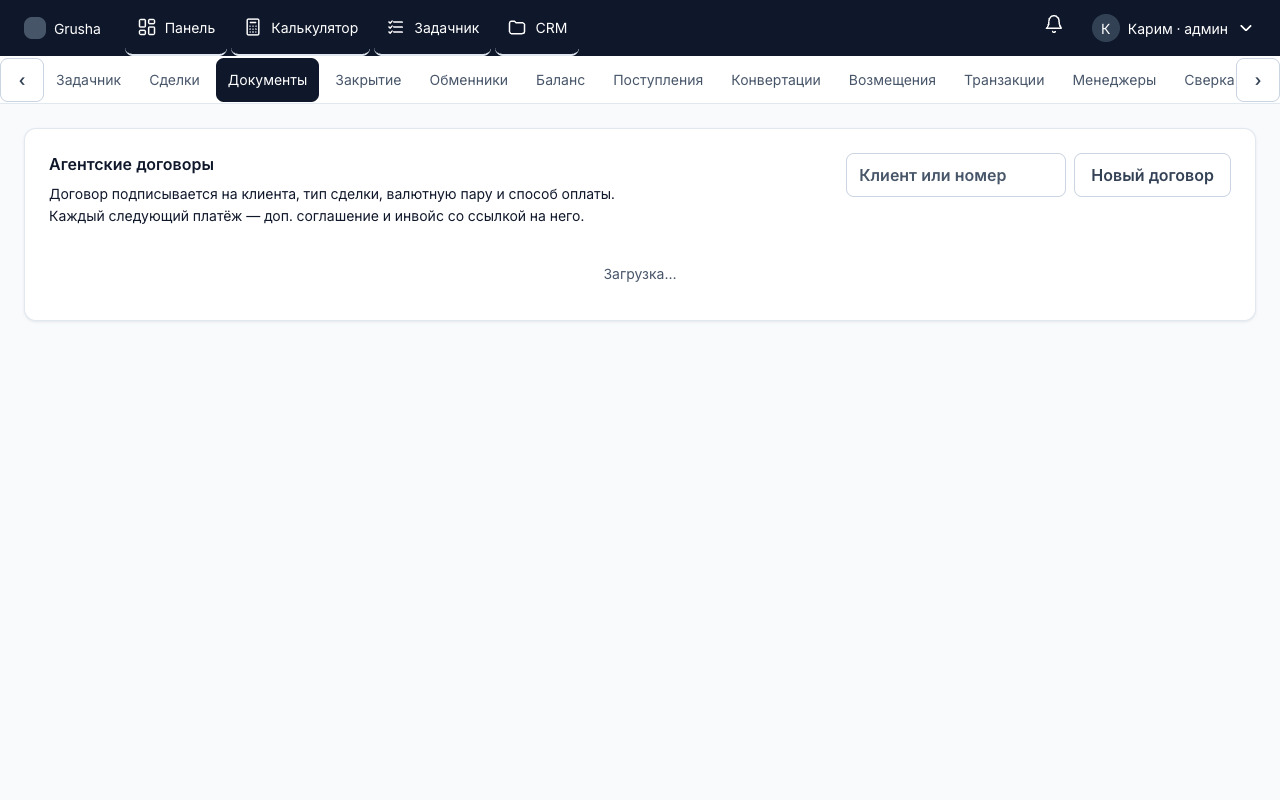
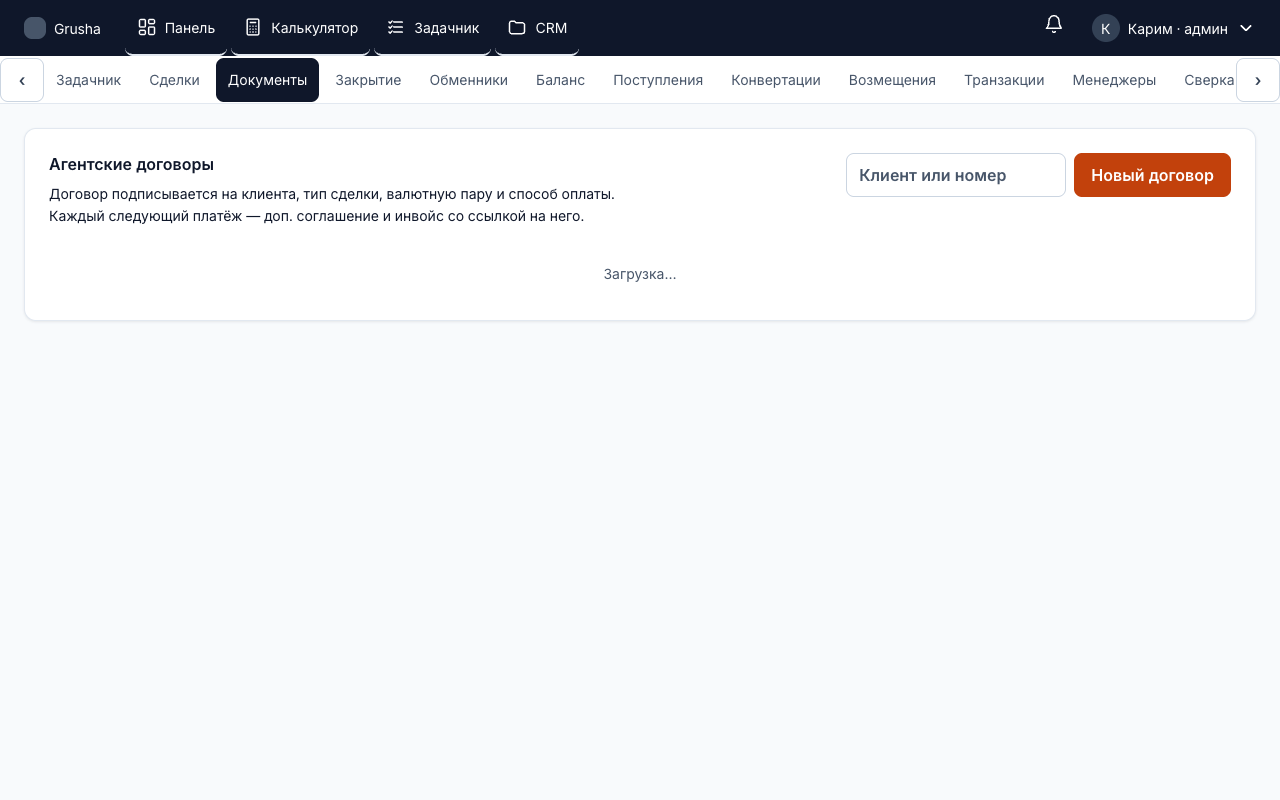
fix: restore primary action on CRM documents screen

Changed region(s): [[0.8125, 0.1875, 0.9688, 0.25]]

diff --git a/static/design-layer.css b/static/design-layer.css
@@ -232,7 +232,7 @@ body.wave4a :is(.button-primary, .calculate-btn, #deals .nav-create-btn,
                 #transactions .btn-primary, #managers .btn-primary,
                 #admins .btn-primary, #kyc .btn-primary,
                 #partners .btn-primary, #referrers .btn-primary,
-                #documents > .docs-head .btn-primary,
+                #documents .docs-head .btn-primary,
                 #exchangers .btn-primary, #balance .btn-primary:first-of-type,
                 #verification .btn-primary:first-of-type) {
   background: var(--action-coral) !important;
@@ -245,7 +245,7 @@ body.wave4a :is(.button-primary, .calculate-btn, #deals .nav-create-btn,
                 #transactions .btn-primary, #managers .btn-primary,
                 #admins .btn-primary, #kyc .btn-primary,
                 #partners .btn-primary, #referrers .btn-primary,
-                #documents > .docs-head .btn-primary,
+                #documents .docs-head .btn-primary,
                 #exchangers .btn-primary, #balance .btn-primary:first-of-type,
                 #verification .btn-primary:first-of-type) * { color: var(--surface-white) !important; }
 body.wave4a :is(.button-primary, .calculate-btn, #deals .nav-create-btn,
@@ -254,7 +254,7 @@ body.wave4a :is(.button-primary, .calculate-btn, #deals .nav-create-btn,
                 #transactions .btn-primary, #managers .btn-primary,
                 #admins .btn-primary, #kyc .btn-primary,
                 #partners .btn-primary, #referrers .btn-primary,
-                #documents > .docs-head .btn-primary,
+                #documents .docs-head .btn-primary,
                 #exchangers .btn-primary, #balance .btn-primary:first-of-type,
                 #verification .btn-primary:first-of-type):hover {
   background: var(--action-coral-hover) !important;

diff --git a/outputs/calccrm-redesign/wave4a/gate-summary.md b/outputs/calccrm-redesign/wave4a/gate-summary.md
@@ -31,9 +31,12 @@
 |---|---|---|
 | Калькулятор — результат | [до](machine-calculator-result/before-karim-375.png) / [после](machine-calculator-result/after-karim-375.png) | [до](machine-calculator-result/before-karim-1280.png) / [после](machine-calculator-result/after-karim-1280.png) |
 | Сделки | [до](machine-crm-deals/before-karim-375.png) / [после](machine-crm-deals/after-karim-375.png) | [до](machine-crm-deals/before-karim-1280.png) / [после](machine-crm-deals/after-karim-1280.png) |
+| Документы | [до](machine-crm-documents/before-karim-375.png) / [после](machine-crm-documents/after-karim-375.png) | [до](machine-crm-documents/before-karim-1280.png) / [после](machine-crm-documents/after-karim-1280.png) |
 | Аналитика CRM | [до](machine-crm-dashboard/before-karim-375.png) / [после](machine-crm-dashboard/after-karim-375.png) | [до](machine-crm-dashboard/before-karim-1280.png) / [после](machine-crm-dashboard/after-karim-1280.png) |
 | Обменники | [до](machine-crm-exchangers/before-karim-375.png) / [после](machine-crm-exchangers/after-karim-375.png) | [до](machine-crm-exchangers/before-karim-1280.png) / [после](machine-crm-exchangers/after-karim-1280.png) |
 
 На снимках «Сделок» сохранена одна и та же тестовая запись `#2`: исходно `$140242.69` и зелёная `$1000.00`, после — `140 242,69 USDT` и нейтральная `$1 000,00`; заголовки таблицы в обычном регистре. На «Аналитике» графики используют navy-палитру, суммы и заголовки таблиц приведены к общему стилю. В рассчитанном состоянии калькулятора одна главная кнопка, карточка результата белая и контрастная.
+
+После исправления селектора у «Документов» кнопка «Новый договор» окрашена в `#C2410C`; повторный `check` показал ровно одну главную кнопку на 375, 768, 1280 и 1920px.
 
 Автоматический PASS не отменяет ручных оговорок по данным стенда и существующему поведению редактора: см. [ручной QA](manual-qa.md).
